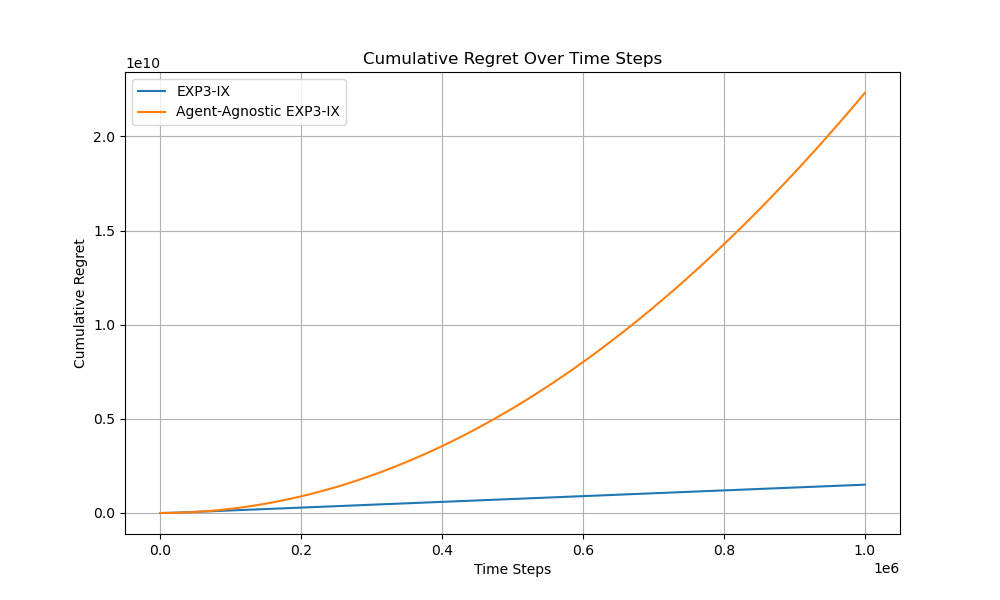
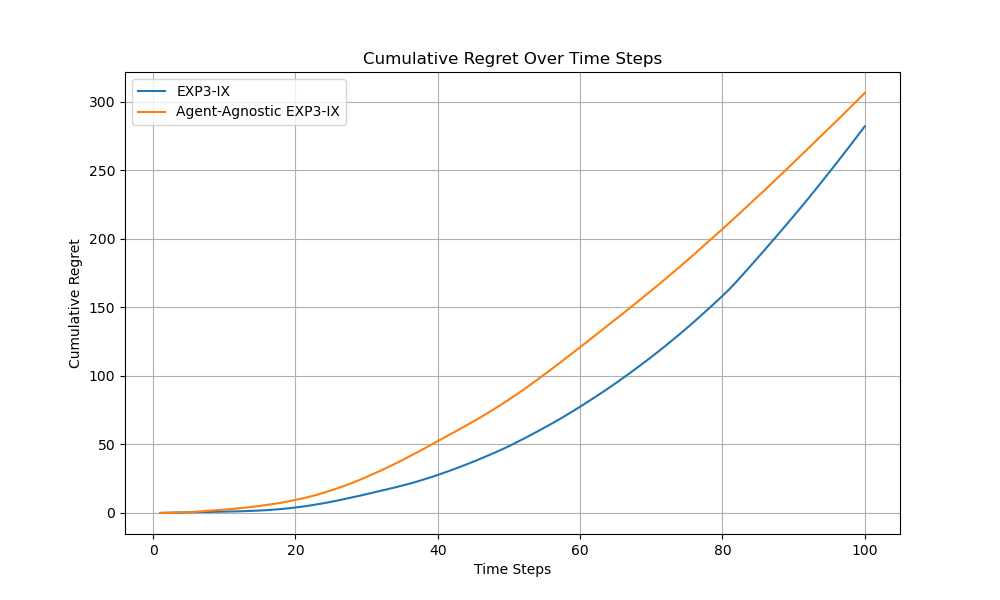
updating plot

diff --git a/RL/model-implementation/main.py b/RL/model-implementation/main.py
@@ -151,8 +151,8 @@ def EQasObserver(total_iteration=10000):
     print(f"CCE: Visit counts for state '{state}':", EQobserver.visit_count_unknown[str(state)])
     return losses,regret
     
-lossEQAgent,regretEQAgent = EQasAgent(total_iteration=1000000)
-lossEQobserver,regretEQobserver = EQasObserver(total_iteration=1000000)
+lossEQAgent,regretEQAgent = EQasAgent(total_iteration=100)
+lossEQobserver,regretEQobserver = EQasObserver(total_iteration=100)
 
 names_list = ["EXP3-IX", "Agent-Agnostic EXP3-IX"]
 
